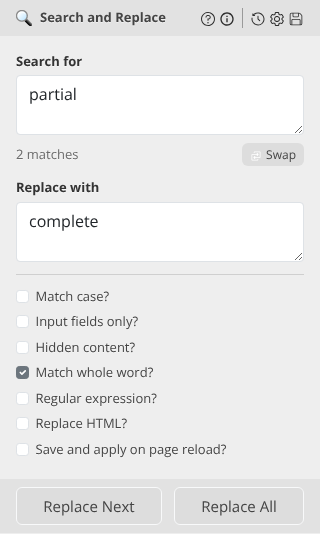
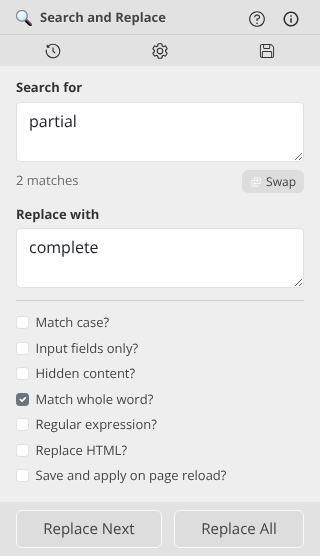
Split the header into a title line and a tab strip
Help and about only ever open documentation; history, settings, saved rules and
the side panel toggle change what you are looking at. The first pair now sits
on the title line, and the other four form a full-bleed tab strip beneath it,
sharing the width equally. The underline marking the open panel spans the whole
tab rather than just the glyph.

The strip costs about 26px, so the body panel's vertical padding drops to 12px
and the history list cap to 330px. Measured across all ten locales: the tallest
is Russian at 593 against Chrome's 600px cap.

diff --git a/assets/popup.html b/assets/popup.html
@@ -15,126 +15,122 @@
     </div>
     <div id="content" class="container-fluid">
         <div id="header" class="row">
-            <div class="d-flex justify-content-between align-items-center py-2 bg-surface shadow-sm">
-                <div class="display-flow">
-                    <img src="icon.png" width="16" height="16" alt="search and replace logo" />
-                    <span class="fw-bold" data-locale="ext_name">Search
-                        and
-                        Replace</span>
-                </div>
-                <form class="header-actions">
-                    <!-- Reference: help and about -->
-                    <span class="header-group">
+            <div class="header-bar bg-surface shadow-sm">
+                <div class="header-title">
+                    <div class="display-flow">
+                        <img src="icon.png" width="16" height="16" alt="search and replace logo" />
+                        <span class="fw-bold" data-locale="ext_name">Search
+                            and
+                            Replace</span>
+                    </div>
+                    <!-- Reference: opens documentation, changes nothing -->
+                    <div class="header-reference">
                         <div id="help" class="form-group mx-1">
-                            <a class="fs-10" href="#">
-                                <i>
-                                    <svg width="18" height="18" viewBox="0 0 12 12" fill="none"
-                                        xmlns="http://www.w3.org/2000/svg">
-                                        <g clip-path="url(#clip0_4_52)">
-                                            <path
-                                                d="M6 0.75C4.96165 0.75 3.94662 1.05791 3.08326 1.63478C2.2199 2.21166 1.54699 3.0316 1.14963 3.99091C0.752275 4.95022 0.648307 6.00582 0.85088 7.02422C1.05345 8.04262 1.55347 8.97808 2.28769 9.71231C3.02192 10.4465 3.95738 10.9466 4.97578 11.1491C5.99418 11.3517 7.04978 11.2477 8.00909 10.8504C8.9684 10.453 9.78834 9.7801 10.3652 8.91674C10.9421 8.05339 11.25 7.03835 11.25 6C11.25 4.60761 10.6969 3.27226 9.71231 2.28769C8.72775 1.30312 7.39239 0.75 6 0.75ZM6 10.5C5.10999 10.5 4.23996 10.2361 3.49994 9.74161C2.75992 9.24715 2.18314 8.54434 1.84254 7.72208C1.50195 6.89981 1.41284 5.99501 1.58647 5.12209C1.7601 4.24918 2.18869 3.44736 2.81802 2.81802C3.44736 2.18868 4.24918 1.7601 5.1221 1.58647C5.99501 1.41283 6.89981 1.50195 7.72208 1.84254C8.54434 2.18314 9.24715 2.75991 9.74162 3.49993C10.2361 4.23996 10.5 5.10998 10.5 6C10.5 7.19347 10.0259 8.33807 9.18198 9.18198C8.33807 10.0259 7.19348 10.5 6 10.5Z"
-                                                fill="#2D2D2D" />
-                                            <path
-                                                d="M6 9.375C6.31066 9.375 6.5625 9.12316 6.5625 8.8125C6.5625 8.50184 6.31066 8.25 6 8.25C5.68934 8.25 5.4375 8.50184 5.4375 8.8125C5.4375 9.12316 5.68934 9.375 6 9.375Z"
-                                                fill="#2D2D2D" />
-                                            <path
-                                                d="M6.375 3H5.8125C5.59076 2.9995 5.3711 3.04281 5.16614 3.12744C4.96118 3.21207 4.77496 3.33635 4.61816 3.49315C4.46136 3.64995 4.33708 3.83617 4.25245 4.04113C4.16782 4.24609 4.12451 4.46575 4.125 4.6875V4.875H4.875V4.6875C4.875 4.43886 4.97378 4.2004 5.14959 4.02458C5.32541 3.84877 5.56386 3.75 5.8125 3.75H6.375C6.62364 3.75 6.8621 3.84877 7.03792 4.02458C7.21373 4.2004 7.3125 4.43886 7.3125 4.6875C7.3125 4.93614 7.21373 5.17459 7.03792 5.35041C6.8621 5.52622 6.62364 5.625 6.375 5.625H5.625V7.3125H6.375V6.375C6.82256 6.375 7.25178 6.19721 7.56825 5.88074C7.88471 5.56427 8.0625 5.13505 8.0625 4.6875C8.0625 4.23994 7.88471 3.81072 7.56825 3.49425C7.25178 3.17779 6.82256 3 6.375 3Z"
-                                                fill="#2D2D2D" />
-                                        </g>
-                                        <defs>
-                                            <clipPath id="clip0_4_52">
-                                                <rect width="12" height="12" fill="white" />
-                                            </clipPath>
-                                        </defs>
-                                    </svg>
-
-                                </i>
-                            </a>
+                        <a class="fs-10" href="#">
+                        <i>
+                        <svg width="18" height="18" viewBox="0 0 12 12" fill="none"
+                        xmlns="http://www.w3.org/2000/svg">
+                        <g clip-path="url(#clip0_4_52)">
+                        <path
+                        d="M6 0.75C4.96165 0.75 3.94662 1.05791 3.08326 1.63478C2.2199 2.21166 1.54699 3.0316 1.14963 3.99091C0.752275 4.95022 0.648307 6.00582 0.85088 7.02422C1.05345 8.04262 1.55347 8.97808 2.28769 9.71231C3.02192 10.4465 3.95738 10.9466 4.97578 11.1491C5.99418 11.3517 7.04978 11.2477 8.00909 10.8504C8.9684 10.453 9.78834 9.7801 10.3652 8.91674C10.9421 8.05339 11.25 7.03835 11.25 6C11.25 4.60761 10.6969 3.27226 9.71231 2.28769C8.72775 1.30312 7.39239 0.75 6 0.75ZM6 10.5C5.10999 10.5 4.23996 10.2361 3.49994 9.74161C2.75992 9.24715 2.18314 8.54434 1.84254 7.72208C1.50195 6.89981 1.41284 5.99501 1.58647 5.12209C1.7601 4.24918 2.18869 3.44736 2.81802 2.81802C3.44736 2.18868 4.24918 1.7601 5.1221 1.58647C5.99501 1.41283 6.89981 1.50195 7.72208 1.84254C8.54434 2.18314 9.24715 2.75991 9.74162 3.49993C10.2361 4.23996 10.5 5.10998 10.5 6C10.5 7.19347 10.0259 8.33807 9.18198 9.18198C8.33807 10.0259 7.19348 10.5 6 10.5Z"
+                        fill="#2D2D2D" />
+                        <path
+                        d="M6 9.375C6.31066 9.375 6.5625 9.12316 6.5625 8.8125C6.5625 8.50184 6.31066 8.25 6 8.25C5.68934 8.25 5.4375 8.50184 5.4375 8.8125C5.4375 9.12316 5.68934 9.375 6 9.375Z"
+                        fill="#2D2D2D" />
+                        <path
+                        d="M6.375 3H5.8125C5.59076 2.9995 5.3711 3.04281 5.16614 3.12744C4.96118 3.21207 4.77496 3.33635 4.61816 3.49315C4.46136 3.64995 4.33708 3.83617 4.25245 4.04113C4.16782 4.24609 4.12451 4.46575 4.125 4.6875V4.875H4.875V4.6875C4.875 4.43886 4.97378 4.2004 5.14959 4.02458C5.32541 3.84877 5.56386 3.75 5.8125 3.75H6.375C6.62364 3.75 6.8621 3.84877 7.03792 4.02458C7.21373 4.2004 7.3125 4.43886 7.3125 4.6875C7.3125 4.93614 7.21373 5.17459 7.03792 5.35041C6.8621 5.52622 6.62364 5.625 6.375 5.625H5.625V7.3125H6.375V6.375C6.82256 6.375 7.25178 6.19721 7.56825 5.88074C7.88471 5.56427 8.0625 5.13505 8.0625 4.6875C8.0625 4.23994 7.88471 3.81072 7.56825 3.49425C7.25178 3.17779 6.82256 3 6.375 3Z"
+                        fill="#2D2D2D" />
+                        </g>
+                        <defs>
+                        <clipPath id="clip0_4_52">
+                        <rect width="12" height="12" fill="white" />
+                        </clipPath>
+                        </defs>
+                        </svg>
+                        </i>
+                        </a>
                         </div>
                         <div id="about" class="form-group mx-1">
-                            <a class="fs-10" href="#">
-                                <i>
-                                    <svg width="18" height="18" viewBox="0 0 12 12" fill="none"
-                                        xmlns="http://www.w3.org/2000/svg">
-                                        <path
-                                            d="M5.5 4.5H6.5V3.5H5.5M6 10C3.795 10 2 8.205 2 6C2 3.795 3.795 2 6 2C8.205 2 10 3.795 10 6C10 8.205 8.205 10 6 10ZM6 1C5.34339 1 4.69321 1.12933 4.08658 1.3806C3.47995 1.63188 2.92876 2.00017 2.46447 2.46447C1.52678 3.40215 1 4.67392 1 6C1 7.32608 1.52678 8.59785 2.46447 9.53553C2.92876 9.99983 3.47995 10.3681 4.08658 10.6194C4.69321 10.8707 5.34339 11 6 11C7.32608 11 8.59785 10.4732 9.53553 9.53553C10.4732 8.59785 11 7.32608 11 6C11 5.34339 10.8707 4.69321 10.6194 4.08658C10.3681 3.47995 9.99983 2.92876 9.53553 2.46447C9.07124 2.00017 8.52005 1.63188 7.91342 1.3806C7.30679 1.12933 6.65661 1 6 1ZM5.5 8.5H6.5V5.5H5.5V8.5Z"
-                                            fill="#2D2D2D" />
-                                    </svg>
-                                </i>
-                            </a>
+                        <a class="fs-10" href="#">
+                        <i>
+                        <svg width="18" height="18" viewBox="0 0 12 12" fill="none"
+                        xmlns="http://www.w3.org/2000/svg">
+                        <path
+                        d="M5.5 4.5H6.5V3.5H5.5M6 10C3.795 10 2 8.205 2 6C2 3.795 3.795 2 6 2C8.205 2 10 3.795 10 6C10 8.205 8.205 10 6 10ZM6 1C5.34339 1 4.69321 1.12933 4.08658 1.3806C3.47995 1.63188 2.92876 2.00017 2.46447 2.46447C1.52678 3.40215 1 4.67392 1 6C1 7.32608 1.52678 8.59785 2.46447 9.53553C2.92876 9.99983 3.47995 10.3681 4.08658 10.6194C4.69321 10.8707 5.34339 11 6 11C7.32608 11 8.59785 10.4732 9.53553 9.53553C10.4732 8.59785 11 7.32608 11 6C11 5.34339 10.8707 4.69321 10.6194 4.08658C10.3681 3.47995 9.99983 2.92876 9.53553 2.46447C9.07124 2.00017 8.52005 1.63188 7.91342 1.3806C7.30679 1.12933 6.65661 1 6 1ZM5.5 8.5H6.5V5.5H5.5V8.5Z"
+                        fill="#2D2D2D" />
+                        </svg>
+                        </i>
+                        </a>
                         </div>
-                    </span>
-                    <!-- Actions: history, settings, saved rules, side panel -->
-                    <span class="header-group">
-                        <div id="history" class="form-group mx-1 collapsible icon-selected">
-                            <a class="fs-10" href="#"><i>
-                                    <svg width="18" height="18" viewBox="0 0 12 12" fill="none"
-                                        xmlns="http://www.w3.org/2000/svg">
-                                        <path fill-rule="evenodd" clip-rule="evenodd"
-                                            d="M2.53961 2.5345C4.43711 0.639503 7.52211 0.659503 9.43111 2.569C11.3411 4.479 11.3611 7.5655 9.46311 9.463C7.56561 11.3605 4.47911 11.341 2.56911 9.431C2.03186 8.89597 1.62593 8.24369 1.3832 7.52537C1.14046 6.80706 1.06753 6.04225 1.17011 5.291C1.18357 5.19241 1.23565 5.1032 1.31488 5.043C1.39411 4.9828 1.49402 4.95654 1.59261 4.97C1.69121 4.98346 1.78042 5.03554 1.84061 5.11477C1.90081 5.19401 1.92707 5.29391 1.91361 5.3925C1.82653 6.02916 1.88827 6.67733 2.09397 7.2861C2.29966 7.89487 2.64372 8.44765 3.09911 8.901C4.72161 10.523 7.33311 10.5325 8.93311 8.933C10.5326 7.333 10.5231 4.7215 8.90111 3.099C7.27961 1.478 4.66961 1.4675 3.06961 3.065L3.44361 3.0665C3.49286 3.06673 3.54158 3.07666 3.58698 3.09572C3.63239 3.11478 3.6736 3.14259 3.70826 3.17758C3.74292 3.21256 3.77035 3.25403 3.78899 3.29961C3.80762 3.3452 3.81709 3.39401 3.81686 3.44325C3.81663 3.4925 3.8067 3.54122 3.78765 3.58663C3.76859 3.63204 3.74077 3.67325 3.70579 3.70791C3.6708 3.74256 3.62934 3.76999 3.58375 3.78863C3.53817 3.80726 3.48936 3.81673 3.44011 3.8165L2.16711 3.8105C2.06826 3.80998 1.97362 3.77044 1.90377 3.7005C1.83391 3.63055 1.79451 3.53585 1.79411 3.437L1.78761 2.165C1.78735 2.11576 1.79679 2.06694 1.81539 2.02134C1.83399 1.97575 1.8614 1.93426 1.89603 1.89925C1.93067 1.86424 1.97186 1.8364 2.01726 1.81731C2.06265 1.79823 2.11137 1.78827 2.16061 1.788C2.20986 1.78774 2.25867 1.79718 2.30427 1.81578C2.34987 1.83439 2.39135 1.86179 2.42636 1.89642C2.46137 1.93106 2.48921 1.97225 2.5083 2.01765C2.52739 2.06305 2.53735 2.11176 2.53761 2.161L2.53961 2.5345ZM5.99961 3.6245C6.09907 3.6245 6.19445 3.66401 6.26478 3.73434C6.3351 3.80466 6.37461 3.90005 6.37461 3.9995V5.8445L7.51511 6.9845C7.55094 7.01908 7.57953 7.06044 7.59921 7.10619C7.61888 7.15193 7.62925 7.20113 7.6297 7.25092C7.63016 7.30072 7.6207 7.3501 7.60186 7.39619C7.58303 7.44229 7.5552 7.48417 7.52001 7.5194C7.48482 7.55462 7.44296 7.58249 7.39688 7.60137C7.35081 7.62024 7.30143 7.62975 7.25164 7.62934C7.20185 7.62894 7.15264 7.61861 7.10687 7.59898C7.06111 7.57935 7.01972 7.5508 6.98511 7.515L5.62511 6.155V4C5.62511 3.90055 5.66462 3.80516 5.73495 3.73484C5.80527 3.66451 5.90066 3.625 6.00011 3.625"
-                                            fill="#2D2D2D" />
-                                    </svg>
-
-                                </i>
-                            </a>
-                        </div>
-                        <div id="setting" class="form-group mx-1">
-                            <a class="fs-10" href="#">
-                                <i><svg width="18" height="18" viewBox="0 0 12 12" fill="none"
-                                        xmlns="http://www.w3.org/2000/svg">
-                                        <g clip-path="url(#clip0_4_43)">
-                                            <path
-                                                d="M10.125 6.285V5.71125L10.845 5.08125C10.9777 4.96427 11.0648 4.80413 11.0909 4.62915C11.1169 4.45416 11.0803 4.27559 10.9875 4.125L10.1025 2.625C10.0367 2.5111 9.94215 2.41649 9.82829 2.35067C9.71442 2.28485 9.58525 2.25013 9.45372 2.25C9.37222 2.24938 9.29115 2.26204 9.21372 2.2875L8.30247 2.595C8.14515 2.49045 7.98103 2.39649 7.81122 2.31375L7.61997 1.36875C7.58568 1.1961 7.49176 1.04102 7.35464 0.930638C7.21753 0.820261 7.04596 0.761627 6.86997 0.765H5.11497C4.93898 0.761627 4.76742 0.820261 4.6303 0.930638C4.49319 1.04102 4.39926 1.1961 4.36497 1.36875L4.17372 2.31375C4.0027 2.39647 3.83734 2.49043 3.67872 2.595L2.78622 2.2725C2.70796 2.25211 2.62691 2.24451 2.54622 2.25C2.4147 2.25013 2.28553 2.28485 2.17166 2.35067C2.05779 2.41649 1.96323 2.5111 1.89747 2.625L1.01247 4.125C0.924943 4.27537 0.892417 4.4515 0.920466 4.62321C0.948515 4.79493 1.03539 4.95155 1.16622 5.06625L1.87497 5.715V6.28875L1.16622 6.91875C1.0317 7.03425 0.942443 7.19367 0.914297 7.36873C0.886151 7.54379 0.920934 7.72315 1.01247 7.875L1.89747 9.375C1.96323 9.4889 2.05779 9.58351 2.17166 9.64933C2.28553 9.71515 2.4147 9.74986 2.54622 9.75C2.62773 9.75062 2.70879 9.73796 2.78622 9.7125L3.69747 9.405C3.8548 9.50955 4.01891 9.6035 4.18872 9.68625L4.37997 10.6312C4.41426 10.8039 4.50819 10.959 4.6453 11.0694C4.78242 11.1797 4.95398 11.2384 5.12997 11.235H6.89997C7.07596 11.2384 7.24753 11.1797 7.38464 11.0694C7.52176 10.959 7.61568 10.8039 7.64997 10.6312L7.84122 9.68625C8.01225 9.60352 8.17761 9.50957 8.33622 9.405L9.24372 9.7125C9.32115 9.73796 9.40222 9.75062 9.48372 9.75C9.61525 9.74986 9.74442 9.71515 9.85829 9.64933C9.97215 9.58351 10.0667 9.4889 10.1325 9.375L10.9875 7.875C11.075 7.72463 11.1075 7.5485 11.0795 7.37679C11.0514 7.20507 10.9646 7.04845 10.8337 6.93375L10.125 6.285ZM9.45372 9L8.16747 8.565C7.86637 8.82004 7.52225 9.0194 7.15122 9.15375L6.88497 10.5H5.11497L4.84872 9.16875C4.48063 9.03059 4.13837 8.83157 3.83622 8.58L2.54622 9L1.66122 7.5L2.68122 6.6C2.61188 6.21182 2.61188 5.81443 2.68122 5.42625L1.66122 4.5L2.54622 3L3.83247 3.435C4.13357 3.17996 4.4777 2.9806 4.84872 2.84625L5.11497 1.5H6.88497L7.15122 2.83125C7.51931 2.96941 7.86158 3.16843 8.16372 3.42L9.45372 3L10.3387 4.5L9.31872 5.4C9.38806 5.78818 9.38806 6.18557 9.31872 6.57375L10.3387 7.5L9.45372 9Z"
-                                                fill="#2D2D2D" />
-                                            <path
-                                                d="M6 8.25C5.55499 8.25 5.11998 8.11804 4.74997 7.87081C4.37996 7.62357 4.09157 7.27217 3.92127 6.86104C3.75097 6.4499 3.70642 5.9975 3.79323 5.56105C3.88005 5.12459 4.09434 4.72368 4.40901 4.40901C4.72368 4.09434 5.12459 3.88005 5.56105 3.79323C5.9975 3.70642 6.4499 3.75097 6.86104 3.92127C7.27217 4.09157 7.62357 4.37996 7.87081 4.74997C8.11804 5.11998 8.25 5.55499 8.25 6C8.25301 6.29631 8.19687 6.59024 8.08486 6.86459C7.97285 7.13893 7.80723 7.38816 7.5977 7.5977C7.38816 7.80723 7.13893 7.97285 6.86459 8.08486C6.59024 8.19687 6.29631 8.25301 6 8.25ZM6 4.5C5.80176 4.49538 5.60463 4.53102 5.42056 4.60477C5.23648 4.67852 5.06928 4.78884 4.92906 4.92906C4.78884 5.06928 4.67852 5.23648 4.60477 5.42056C4.53102 5.60463 4.49538 5.80176 4.5 6C4.49538 6.19825 4.53102 6.39537 4.60477 6.57944C4.67852 6.76352 4.78884 6.93073 4.92906 7.07094C5.06928 7.21116 5.23648 7.32148 5.42056 7.39523C5.60463 7.46898 5.80176 7.50462 6 7.5C6.19825 7.50462 6.39537 7.46898 6.57944 7.39523C6.76352 7.32148 6.93073 7.21116 7.07094 7.07094C7.21116 6.93073 7.32148 6.76352 7.39523 6.57944C7.46898 6.39537 7.50462 6.19825 7.5 6C7.50462 5.80176 7.46898 5.60463 7.39523 5.42056C7.32148 5.23648 7.21116 5.06928 7.07094 4.92906C6.93073 4.78884 6.76352 4.67852 6.57944 4.60477C6.39537 4.53102 6.19825 4.49538 6 4.5Z"
-                                                fill="#2D2D2D" />
-                                        </g>
-                                        <defs>
-                                            <clipPath id="clip0_4_43">
-                                                <rect width="12" height="12" fill="white" />
-                                            </clipPath>
-                                        </defs>
-                                    </svg>
-                                </i>
-                            </a>
-                        </div>
-                        <div id="saveRules" class="form-group mx-1">
-                            <a class="fs-10" href="#">
-                                <i>
-                                    <svg xmlns="http://www.w3.org/2000/svg" width="18" height="18" viewBox="0 0 28 28">
-                                        <path fill="currentColor"
-                                            d="M6.25 4.5A1.75 1.75 0 0 0 4.5 6.25v15.5A1.75 1.75 0 0 0 6 23.482V16.25A2.25 2.25 0 0 1 8.25 14h11.5A2.25 2.25 0 0 1 22 16.25v7.232a1.75 1.75 0 0 0 1.5-1.732V8.786c0-.465-.184-.91-.513-1.238l-2.535-2.535a1.75 1.75 0 0 0-1.238-.513H19v4.25A2.25 2.25 0 0 1 16.75 11h-6.5A2.25 2.25 0 0 1 8 8.75V4.5zm3.25 0v4.25c0 .414.336.75.75.75h6.5a.75.75 0 0 0 .75-.75V4.5zm11 19v-7.25a.75.75 0 0 0-.75-.75H8.25a.75.75 0 0 0-.75.75v7.25zM3 6.25A3.25 3.25 0 0 1 6.25 3h12.965a3.25 3.25 0 0 1 2.298.952l2.535 2.535c.61.61.952 1.437.952 2.299V21.75A3.25 3.25 0 0 1 21.75 25H6.25A3.25 3.25 0 0 1 3 21.75z" />
-                                    </svg>
-                                </i>
-                            </a>
-                        </div>
-                        <!-- Open the side panel, or close it when this document is the panel.
-                             Revealed by popup.ts only where chrome.sidePanel exists. -->
-                        <div id="sidePanelToggle" class="form-group mx-1 d-none">
-                            <a class="fs-10" href="#" title="Open in the side panel">
-                                <i class="side-panel-open">
-                                    <svg width="18" height="18" viewBox="0 0 12 12" fill="none"
-                                        xmlns="http://www.w3.org/2000/svg">
-                                        <rect x="1" y="2" width="10" height="8" rx="1.25" stroke="#2D2D2D"
-                                            stroke-width="1" />
-                                        <path d="M7.5 2.5h2.25c.41 0 .75.34.75.75v5.5c0 .41-.34.75-.75.75H7.5V2.5z"
-                                            fill="#2D2D2D" />
-                                    </svg>
-                                </i>
-                                <i class="side-panel-close d-none">
-                                    <svg width="18" height="18" viewBox="0 0 12 12" fill="none"
-                                        xmlns="http://www.w3.org/2000/svg">
-                                        <rect x="1" y="2" width="10" height="8" rx="1.25" stroke="#2D2D2D"
-                                            stroke-width="1" />
-                                        <path d="M3.75 6h3.5M5.75 4.5 7.25 6 5.75 7.5" stroke="#2D2D2D" stroke-width="1"
-                                            stroke-linecap="round" stroke-linejoin="round" />
-                                    </svg>
-                                </i>
-                            </a>
-                        </div>
-                    </span>
-                </form>
+                    </div>
+                </div>
+                <!-- The panels and actions, as a row of tabs -->
+                <nav class="header-tabs">
+                    <div id="history" class="form-group mx-1 collapsible icon-selected">
+                    <a class="fs-10" href="#"><i>
+                    <svg width="18" height="18" viewBox="0 0 12 12" fill="none"
+                    xmlns="http://www.w3.org/2000/svg">
+                    <path fill-rule="evenodd" clip-rule="evenodd"
+                    d="M2.53961 2.5345C4.43711 0.639503 7.52211 0.659503 9.43111 2.569C11.3411 4.479 11.3611 7.5655 9.46311 9.463C7.56561 11.3605 4.47911 11.341 2.56911 9.431C2.03186 8.89597 1.62593 8.24369 1.3832 7.52537C1.14046 6.80706 1.06753 6.04225 1.17011 5.291C1.18357 5.19241 1.23565 5.1032 1.31488 5.043C1.39411 4.9828 1.49402 4.95654 1.59261 4.97C1.69121 4.98346 1.78042 5.03554 1.84061 5.11477C1.90081 5.19401 1.92707 5.29391 1.91361 5.3925C1.82653 6.02916 1.88827 6.67733 2.09397 7.2861C2.29966 7.89487 2.64372 8.44765 3.09911 8.901C4.72161 10.523 7.33311 10.5325 8.93311 8.933C10.5326 7.333 10.5231 4.7215 8.90111 3.099C7.27961 1.478 4.66961 1.4675 3.06961 3.065L3.44361 3.0665C3.49286 3.06673 3.54158 3.07666 3.58698 3.09572C3.63239 3.11478 3.6736 3.14259 3.70826 3.17758C3.74292 3.21256 3.77035 3.25403 3.78899 3.29961C3.80762 3.3452 3.81709 3.39401 3.81686 3.44325C3.81663 3.4925 3.8067 3.54122 3.78765 3.58663C3.76859 3.63204 3.74077 3.67325 3.70579 3.70791C3.6708 3.74256 3.62934 3.76999 3.58375 3.78863C3.53817 3.80726 3.48936 3.81673 3.44011 3.8165L2.16711 3.8105C2.06826 3.80998 1.97362 3.77044 1.90377 3.7005C1.83391 3.63055 1.79451 3.53585 1.79411 3.437L1.78761 2.165C1.78735 2.11576 1.79679 2.06694 1.81539 2.02134C1.83399 1.97575 1.8614 1.93426 1.89603 1.89925C1.93067 1.86424 1.97186 1.8364 2.01726 1.81731C2.06265 1.79823 2.11137 1.78827 2.16061 1.788C2.20986 1.78774 2.25867 1.79718 2.30427 1.81578C2.34987 1.83439 2.39135 1.86179 2.42636 1.89642C2.46137 1.93106 2.48921 1.97225 2.5083 2.01765C2.52739 2.06305 2.53735 2.11176 2.53761 2.161L2.53961 2.5345ZM5.99961 3.6245C6.09907 3.6245 6.19445 3.66401 6.26478 3.73434C6.3351 3.80466 6.37461 3.90005 6.37461 3.9995V5.8445L7.51511 6.9845C7.55094 7.01908 7.57953 7.06044 7.59921 7.10619C7.61888 7.15193 7.62925 7.20113 7.6297 7.25092C7.63016 7.30072 7.6207 7.3501 7.60186 7.39619C7.58303 7.44229 7.5552 7.48417 7.52001 7.5194C7.48482 7.55462 7.44296 7.58249 7.39688 7.60137C7.35081 7.62024 7.30143 7.62975 7.25164 7.62934C7.20185 7.62894 7.15264 7.61861 7.10687 7.59898C7.06111 7.57935 7.01972 7.5508 6.98511 7.515L5.62511 6.155V4C5.62511 3.90055 5.66462 3.80516 5.73495 3.73484C5.80527 3.66451 5.90066 3.625 6.00011 3.625"
+                    fill="#2D2D2D" />
+                    </svg>
+                    </i>
+                    </a>
+                    </div>
+                    <div id="setting" class="form-group mx-1">
+                    <a class="fs-10" href="#">
+                    <i><svg width="18" height="18" viewBox="0 0 12 12" fill="none"
+                    xmlns="http://www.w3.org/2000/svg">
+                    <g clip-path="url(#clip0_4_43)">
+                    <path
+                    d="M10.125 6.285V5.71125L10.845 5.08125C10.9777 4.96427 11.0648 4.80413 11.0909 4.62915C11.1169 4.45416 11.0803 4.27559 10.9875 4.125L10.1025 2.625C10.0367 2.5111 9.94215 2.41649 9.82829 2.35067C9.71442 2.28485 9.58525 2.25013 9.45372 2.25C9.37222 2.24938 9.29115 2.26204 9.21372 2.2875L8.30247 2.595C8.14515 2.49045 7.98103 2.39649 7.81122 2.31375L7.61997 1.36875C7.58568 1.1961 7.49176 1.04102 7.35464 0.930638C7.21753 0.820261 7.04596 0.761627 6.86997 0.765H5.11497C4.93898 0.761627 4.76742 0.820261 4.6303 0.930638C4.49319 1.04102 4.39926 1.1961 4.36497 1.36875L4.17372 2.31375C4.0027 2.39647 3.83734 2.49043 3.67872 2.595L2.78622 2.2725C2.70796 2.25211 2.62691 2.24451 2.54622 2.25C2.4147 2.25013 2.28553 2.28485 2.17166 2.35067C2.05779 2.41649 1.96323 2.5111 1.89747 2.625L1.01247 4.125C0.924943 4.27537 0.892417 4.4515 0.920466 4.62321C0.948515 4.79493 1.03539 4.95155 1.16622 5.06625L1.87497 5.715V6.28875L1.16622 6.91875C1.0317 7.03425 0.942443 7.19367 0.914297 7.36873C0.886151 7.54379 0.920934 7.72315 1.01247 7.875L1.89747 9.375C1.96323 9.4889 2.05779 9.58351 2.17166 9.64933C2.28553 9.71515 2.4147 9.74986 2.54622 9.75C2.62773 9.75062 2.70879 9.73796 2.78622 9.7125L3.69747 9.405C3.8548 9.50955 4.01891 9.6035 4.18872 9.68625L4.37997 10.6312C4.41426 10.8039 4.50819 10.959 4.6453 11.0694C4.78242 11.1797 4.95398 11.2384 5.12997 11.235H6.89997C7.07596 11.2384 7.24753 11.1797 7.38464 11.0694C7.52176 10.959 7.61568 10.8039 7.64997 10.6312L7.84122 9.68625C8.01225 9.60352 8.17761 9.50957 8.33622 9.405L9.24372 9.7125C9.32115 9.73796 9.40222 9.75062 9.48372 9.75C9.61525 9.74986 9.74442 9.71515 9.85829 9.64933C9.97215 9.58351 10.0667 9.4889 10.1325 9.375L10.9875 7.875C11.075 7.72463 11.1075 7.5485 11.0795 7.37679C11.0514 7.20507 10.9646 7.04845 10.8337 6.93375L10.125 6.285ZM9.45372 9L8.16747 8.565C7.86637 8.82004 7.52225 9.0194 7.15122 9.15375L6.88497 10.5H5.11497L4.84872 9.16875C4.48063 9.03059 4.13837 8.83157 3.83622 8.58L2.54622 9L1.66122 7.5L2.68122 6.6C2.61188 6.21182 2.61188 5.81443 2.68122 5.42625L1.66122 4.5L2.54622 3L3.83247 3.435C4.13357 3.17996 4.4777 2.9806 4.84872 2.84625L5.11497 1.5H6.88497L7.15122 2.83125C7.51931 2.96941 7.86158 3.16843 8.16372 3.42L9.45372 3L10.3387 4.5L9.31872 5.4C9.38806 5.78818 9.38806 6.18557 9.31872 6.57375L10.3387 7.5L9.45372 9Z"
+                    fill="#2D2D2D" />
+                    <path
+                    d="M6 8.25C5.55499 8.25 5.11998 8.11804 4.74997 7.87081C4.37996 7.62357 4.09157 7.27217 3.92127 6.86104C3.75097 6.4499 3.70642 5.9975 3.79323 5.56105C3.88005 5.12459 4.09434 4.72368 4.40901 4.40901C4.72368 4.09434 5.12459 3.88005 5.56105 3.79323C5.9975 3.70642 6.4499 3.75097 6.86104 3.92127C7.27217 4.09157 7.62357 4.37996 7.87081 4.74997C8.11804 5.11998 8.25 5.55499 8.25 6C8.25301 6.29631 8.19687 6.59024 8.08486 6.86459C7.97285 7.13893 7.80723 7.38816 7.5977 7.5977C7.38816 7.80723 7.13893 7.97285 6.86459 8.08486C6.59024 8.19687 6.29631 8.25301 6 8.25ZM6 4.5C5.80176 4.49538 5.60463 4.53102 5.42056 4.60477C5.23648 4.67852 5.06928 4.78884 4.92906 4.92906C4.78884 5.06928 4.67852 5.23648 4.60477 5.42056C4.53102 5.60463 4.49538 5.80176 4.5 6C4.49538 6.19825 4.53102 6.39537 4.60477 6.57944C4.67852 6.76352 4.78884 6.93073 4.92906 7.07094C5.06928 7.21116 5.23648 7.32148 5.42056 7.39523C5.60463 7.46898 5.80176 7.50462 6 7.5C6.19825 7.50462 6.39537 7.46898 6.57944 7.39523C6.76352 7.32148 6.93073 7.21116 7.07094 7.07094C7.21116 6.93073 7.32148 6.76352 7.39523 6.57944C7.46898 6.39537 7.50462 6.19825 7.5 6C7.50462 5.80176 7.46898 5.60463 7.39523 5.42056C7.32148 5.23648 7.21116 5.06928 7.07094 4.92906C6.93073 4.78884 6.76352 4.67852 6.57944 4.60477C6.39537 4.53102 6.19825 4.49538 6 4.5Z"
+                    fill="#2D2D2D" />
+                    </g>
+                    <defs>
+                    <clipPath id="clip0_4_43">
+                    <rect width="12" height="12" fill="white" />
+                    </clipPath>
+                    </defs>
+                    </svg>
+                    </i>
+                    </a>
+                    </div>
+                    <div id="saveRules" class="form-group mx-1">
+                    <a class="fs-10" href="#">
+                    <i>
+                    <svg xmlns="http://www.w3.org/2000/svg" width="18" height="18" viewBox="0 0 28 28">
+                    <path fill="currentColor"
+                    d="M6.25 4.5A1.75 1.75 0 0 0 4.5 6.25v15.5A1.75 1.75 0 0 0 6 23.482V16.25A2.25 2.25 0 0 1 8.25 14h11.5A2.25 2.25 0 0 1 22 16.25v7.232a1.75 1.75 0 0 0 1.5-1.732V8.786c0-.465-.184-.91-.513-1.238l-2.535-2.535a1.75 1.75 0 0 0-1.238-.513H19v4.25A2.25 2.25 0 0 1 16.75 11h-6.5A2.25 2.25 0 0 1 8 8.75V4.5zm3.25 0v4.25c0 .414.336.75.75.75h6.5a.75.75 0 0 0 .75-.75V4.5zm11 19v-7.25a.75.75 0 0 0-.75-.75H8.25a.75.75 0 0 0-.75.75v7.25zM3 6.25A3.25 3.25 0 0 1 6.25 3h12.965a3.25 3.25 0 0 1 2.298.952l2.535 2.535c.61.61.952 1.437.952 2.299V21.75A3.25 3.25 0 0 1 21.75 25H6.25A3.25 3.25 0 0 1 3 21.75z" />
+                    </svg>
+                    </i>
+                    </a>
+                    </div>
+                    <div id="sidePanelToggle" class="form-group mx-1 d-none">
+                    <a class="fs-10" href="#" title="Open in the side panel">
+                    <i class="side-panel-open">
+                    <svg width="18" height="18" viewBox="0 0 12 12" fill="none"
+                    xmlns="http://www.w3.org/2000/svg">
+                    <rect x="1" y="2" width="10" height="8" rx="1.25" stroke="#2D2D2D"
+                    stroke-width="1" />
+                    <path d="M7.5 2.5h2.25c.41 0 .75.34.75.75v5.5c0 .41-.34.75-.75.75H7.5V2.5z"
+                    fill="#2D2D2D" />
+                    </svg>
+                    </i>
+                    <i class="side-panel-close d-none">
+                    <svg width="18" height="18" viewBox="0 0 12 12" fill="none"
+                    xmlns="http://www.w3.org/2000/svg">
+                    <rect x="1" y="2" width="10" height="8" rx="1.25" stroke="#2D2D2D"
+                    stroke-width="1" />
+                    <path d="M3.75 6h3.5M5.75 4.5 7.25 6 5.75 7.5" stroke="#2D2D2D" stroke-width="1"
+                    stroke-linecap="round" stroke-linejoin="round" />
+                    </svg>
+                    </i>
+                    </a>
+                    </div>
+                </nav>
             </div>
         </div>
         <div class="row bg-surface">

diff --git a/assets/style.css b/assets/style.css
@@ -76,7 +76,7 @@ a {
     display: flex;
     flex-direction: column;
     gap: var(--sr-space-xs);
-    max-height: 380px;
+    max-height: 330px;
     overflow-y: auto;
     margin: 0;
     padding-inline-start: 0;
@@ -190,7 +190,7 @@ body.side-panel #footer > div {
    panel now sizes to its content and Chrome sizes the popup to match. */
 .background-img {
     background-color: var(--sr-bg);
-    padding: var(--sr-space-lg) var(--sr-gutter);
+    padding: var(--sr-space-md) var(--sr-gutter);
 }
 
 /* The header, body and footer panels are full-bleed, so each supplies its own gutter. Keeping
@@ -390,42 +390,62 @@ body.side-panel #footer > div {
     font-size: 22px;
 }
 
-/* The header's icon buttons, in two groups: the two that only tell you something (help, about)
-   and the four that do something (history, settings, saved rules, side panel). Six evenly
-   spaced glyphs read as an undifferentiated row; the divider gives the eye somewhere to rest
-   and says which of them change the page.
-   They are 16px rather than 18px so that all six and the untruncated title fit across 320px. */
-.header-actions {
+/* Header: the title and the two reference icons on one line, then the panels and actions as a
+   tab strip beneath.
+   The six icons used to share the title's line, which at 320px left them crowded and the title
+   truncated. Splitting them by what they do — help and about only ever open documentation,
+   the rest change what you are looking at — gives the tabs the whole width to spread across. */
+.header-bar {
+    padding-top: var(--sr-space-sm);
+}
+
+.header-title {
+    display: flex;
+    align-items: center;
+    justify-content: space-between;
+    gap: var(--sr-space-sm);
+}
+
+.header-reference {
     display: flex;
     align-items: center;
     flex: none;
-    flex-wrap: nowrap;
+    gap: var(--sr-space-sm);
 }
 
-.header-group {
+.header-tabs {
     display: flex;
-    align-items: center;
-    gap: 3px;
+    margin-top: 6px;
+    /* Full-bleed, cancelling the gutter .header-bar applies, so the strip reads as a tab bar
+       rather than a row of icons floating inside the panel */
+    margin-left: calc(var(--sr-gutter) * -1);
+    margin-right: calc(var(--sr-gutter) * -1);
+    border-top: 1px solid var(--sr-border);
 }
 
-.header-group + .header-group {
-    margin-left: 7px;
-    padding-left: 7px;
-    border-left: 1px solid var(--sr-accent-soft);
-}
-
-.header-actions svg {
-    width: 16px;
-    height: 16px;
-}
-
-/* The markup carries .mx-1, which bootstrap declares !important, so the group gap above would
-   be added to it and the icons would spread unevenly */
-.header-group > .form-group {
+/* Equal shares of the row, so the icons land on a regular rhythm however many there are */
+.header-tabs > .form-group {
+    flex: 1 1 0;
+    display: flex;
+    justify-content: center;
+    /* The markup carries .mx-1, which bootstrap declares !important */
     margin: 0 !important;
+    padding: 6px 0 4px;
+    border-bottom: 2px solid transparent;
 }
 
-.header-actions a {
+.header-tabs > .form-group:hover {
+    background-color: rgba(0, 0, 0, 0.04);
+}
+
+/* The underline marking the open panel spans the whole tab rather than just the glyph */
+.header-tabs > .icon-selected {
+    border-bottom-color: var(--sr-accent);
+    padding-bottom: 4px;
+}
+
+.header-title a,
+.header-tabs a {
     display: flex;
     align-items: center;
 }
